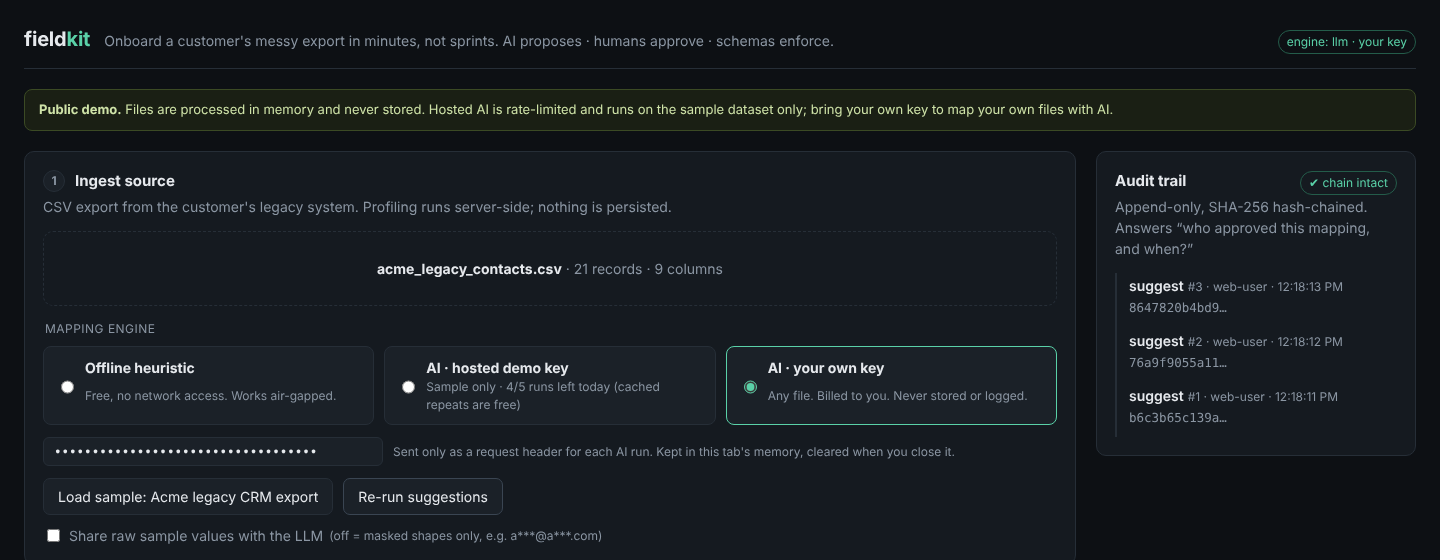
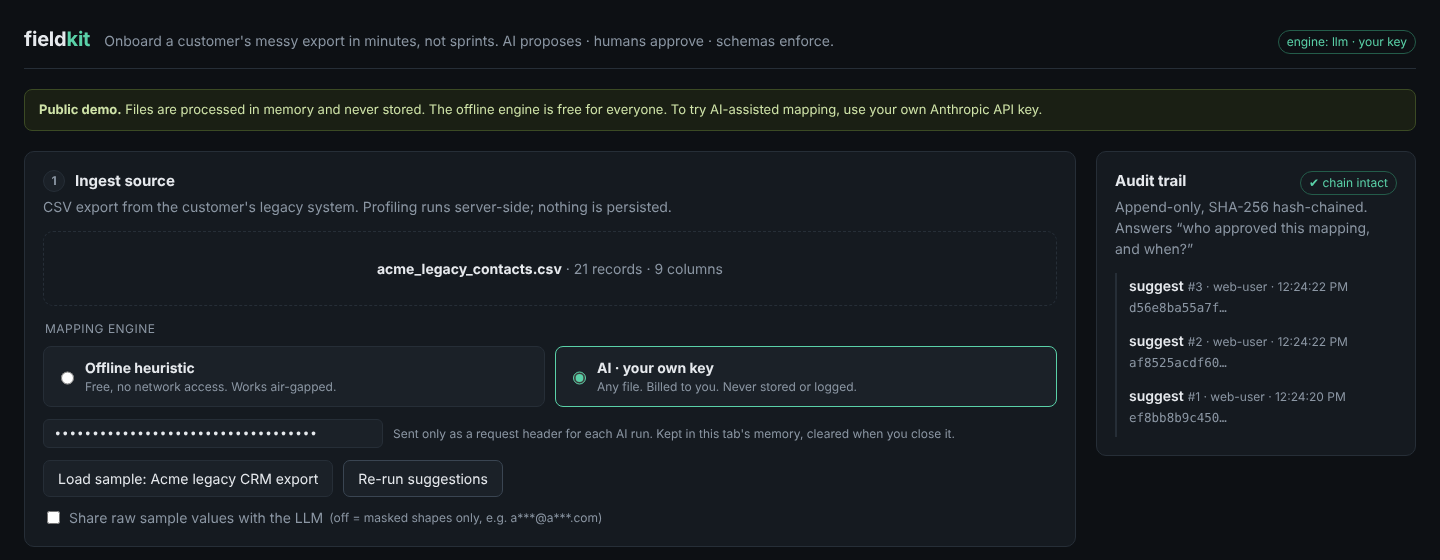
Demo mode: bring-your-own-key only, never spend the owner's key
- FIELDKIT_DEMO_MODE ignores ANTHROPIC_API_KEY (startup warning) unless FIELDKIT_ALLOW_HOSTED_AI=1
- UI shows only Offline and Your own key when no hosted key is active
- Tests cover the ignored-key path; docs and ADR-0005 amended

Claude-Session: https://claude.ai/code/session_01G2K6q7Gvy2H1BMQD6cEnDi

diff --git a/apps/web/app/page.tsx b/apps/web/app/page.tsx
@@ -130,8 +130,10 @@ export default function Workbench() {
 
       {deploy?.demoMode && (
         <div className="demo-banner">
-          <b>Public demo.</b> Files are processed in memory and never stored. Hosted AI is rate-limited
-          {deploy.hostedSampleOnly ? " and runs on the sample dataset only" : ""}; bring your own key to map your own files with AI.
+          <b>Public demo.</b> Files are processed in memory and never stored.{" "}
+          {deploy.hostedAi
+            ? <>Hosted AI is rate-limited{deploy.hostedSampleOnly ? " and runs on the sample dataset only" : ""}; bring your own key to map your own files with AI.</>
+            : <>The offline engine is free for everyone. To try AI-assisted mapping, use your own Anthropic API key.</>}
           {deploy.auditIsEphemeral ? " The audit trail resets when the server recycles." : ""}
         </div>
       )}
@@ -158,15 +160,18 @@ export default function Workbench() {
               <input type="radio" name="engine" checked={engine === "offline"} onChange={() => setEngine("offline")} />
               <b>Offline heuristic</b><span>Free, no network access. Works air-gapped.</span>
             </label>
-            <label className={engine === "hosted" ? "on" : ""} title={deploy?.hostedAi ? "" : "No hosted key on this deployment"}>
-              <input type="radio" name="engine" disabled={!deploy?.hostedAi} checked={engine === "hosted"} onChange={() => setEngine("hosted")} />
-              <b>AI · hosted demo key</b>
-              <span>
-                {!deploy?.hostedAi ? "Not configured on this deployment"
-                  : deploy.demoMode ? `${deploy.hostedSampleOnly ? "Sample only · " : ""}${deploy.remainingToday ?? 0}/${deploy.perVisitorDaily} runs left today (cached repeats are free)`
-                  : "Uses the server's key"}
-              </span>
-            </label>
+            {/* Only shown when the deployment deliberately provides a server key (local/private, or explicit opt-in). */}
+            {deploy?.hostedAi && (
+              <label className={engine === "hosted" ? "on" : ""}>
+                <input type="radio" name="engine" checked={engine === "hosted"} onChange={() => setEngine("hosted")} />
+                <b>AI · {deploy.demoMode ? "hosted demo key" : "server key"}</b>
+                <span>
+                  {deploy.demoMode
+                    ? `${deploy.hostedSampleOnly ? "Sample only · " : ""}${deploy.remainingToday ?? 0}/${deploy.perVisitorDaily} runs left today (cached repeats are free)`
+                    : "Uses this server's configured key"}
+                </span>
+              </label>
+            )}
             <label className={engine === "byok" ? "on" : ""}>
               <input type="radio" name="engine" checked={engine === "byok"} onChange={() => setEngine("byok")} />
               <b>AI · your own key</b><span>Any file. Billed to you. Never stored or logged.</span>

diff --git a/apps/web/lib/demo.ts b/apps/web/lib/demo.ts
@@ -13,7 +13,10 @@ import { createHash } from "node:crypto";
 
 export interface DemoConfig {
   demoMode: boolean;
+  /** Server-side key. Always undefined in demo mode unless FIELDKIT_ALLOW_HOSTED_AI=1. */
   hostedKey?: string;
+  /** True when a key is present in the environment but deliberately ignored (demo mode). */
+  hostedKeyIgnored: boolean;
   /** In demo mode, only spend the hosted key on the built-in sample dataset. */
   sampleOnly: boolean;
   perVisitorDaily: number;
@@ -27,9 +30,14 @@ const bool = (v: string | undefined, d: boolean) => (v === undefined ? d : /^(1|
 
 export function loadConfig(env: Record<string, string | undefined> = process.env): DemoConfig {
   const demoMode = bool(env.FIELDKIT_DEMO_MODE, false);
+  // Public demos never spend the owner's key by default: AI is bring-your-own-key only.
+  // A key set by mistake in the hosting dashboard is ignored, not used.
+  const allowHosted = !demoMode || bool(env.FIELDKIT_ALLOW_HOSTED_AI, false);
+  const envKey = env.ANTHROPIC_API_KEY || undefined;
   return {
     demoMode,
-    hostedKey: env.ANTHROPIC_API_KEY || undefined,
+    hostedKey: allowHosted ? envKey : undefined,
+    hostedKeyIgnored: Boolean(envKey) && !allowHosted,
     sampleOnly: bool(env.FIELDKIT_HOSTED_SAMPLE_ONLY, true),
     perVisitorDaily: int(env.FIELDKIT_AI_PER_VISITOR_DAILY, 5),
     globalDaily: int(env.FIELDKIT_AI_GLOBAL_DAILY, 100),
@@ -138,7 +146,7 @@ export interface DecideInput {
 export function decideEngine({ config, wantsLlm, byokKey, isSample }: DecideInput): EngineDecision {
   if (!wantsLlm) return { kind: "heuristic", reason: "Offline engine selected" };
   if (byokKey) return { kind: "byok", apiKey: byokKey };
-  if (!config.hostedKey) return { kind: "heuristic", reason: "No hosted AI key on this deployment. Add your own key to try AI mapping." };
+  if (!config.hostedKey) return { kind: "heuristic", reason: "AI mapping on this deployment uses your own key only. Add it to try AI mapping." };
   if (!config.demoMode) return { kind: "hosted", apiKey: config.hostedKey, metered: false };
   if (config.sampleOnly && !isSample) {
     return { kind: "heuristic", reason: "Hosted AI runs on the sample dataset only in this public demo. Use your own key for uploads." };

diff --git a/apps/web/app/globals.css b/apps/web/app/globals.css
@@ -82,12 +82,11 @@ aside .event .t { color: var(--muted); font-size: 12px; }
 aside .event code { color: var(--muted); }
 
 .demo-banner { grid-column: 1 / -1; background: #1a1f14; border: 1px solid #3b4a24; color: #cfe3a8; border-radius: 8px; padding: 10px 14px; font-size: 13px; }
-.engines { border: none; padding: 0; margin: 14px 0 12px; display: grid; grid-template-columns: repeat(3, 1fr); gap: 10px; }
+.engines { border: none; padding: 0; margin: 14px 0 12px; display: grid; grid-template-columns: repeat(auto-fit, minmax(240px, 1fr)); gap: 10px; }
 .engines legend { color: var(--muted); font-size: 12px; text-transform: uppercase; letter-spacing: 0.04em; margin-bottom: 8px; }
 .engines label { display: grid; grid-template-columns: auto 1fr; column-gap: 8px; background: var(--panel-2); border: 1px solid var(--line); border-radius: 8px; padding: 10px 12px; cursor: pointer; }
 .engines label.on { border-color: var(--accent); }
 .engines label:has(input:disabled) { opacity: 0.5; cursor: not-allowed; }
 .engines input { grid-row: span 2; margin-top: 3px; accent-color: var(--accent); }
 .engines span { color: var(--muted); font-size: 12px; }
-@media (max-width: 800px) { .engines { grid-template-columns: 1fr; } }
 input.key { font-family: var(--mono); font-size: 12.5px; color: var(--text); background: var(--panel-2); border: 1px solid var(--line); border-radius: 6px; padding: 6px 10px; width: 340px; }

diff --git a/apps/web/lib/demo.test.ts b/apps/web/lib/demo.test.ts
@@ -12,6 +12,17 @@ describe("loadConfig", () => {
     const c = loadConfig({ FIELDKIT_DEMO_MODE: "1", FIELDKIT_AI_GLOBAL_DAILY: "20" });
     expect(c).toMatchObject({ demoMode: true, globalDaily: 20, requestsPerMinute: 30, maxCsvBytes: 2 * 1024 * 1024 });
   });
+
+  it("ignores the owner's key in demo mode, even if it is set by mistake", () => {
+    const c = loadConfig({ FIELDKIT_DEMO_MODE: "1", ANTHROPIC_API_KEY: "owner-key" });
+    expect(c.hostedKey).toBeUndefined();
+    expect(c.hostedKeyIgnored).toBe(true);
+    expect(decideEngine({ config: c, wantsLlm: true, isSample: true }).kind).toBe("heuristic");
+  });
+
+  it("uses the server key for local/private deployments", () => {
+    expect(loadConfig({ ANTHROPIC_API_KEY: "k" }).hostedKey).toBe("k");
+  });
 });
 
 describe("FixedWindowLimiter", () => {
@@ -49,7 +60,8 @@ describe("TtlCache", () => {
 });
 
 describe("decideEngine", () => {
-  const demo = loadConfig({ FIELDKIT_DEMO_MODE: "1", ANTHROPIC_API_KEY: "host-key" });
+  // Explicit opt-in (FIELDKIT_ALLOW_HOSTED_AI) is required for the hosted path in demo mode.
+  const demo = loadConfig({ FIELDKIT_DEMO_MODE: "1", FIELDKIT_ALLOW_HOSTED_AI: "1", ANTHROPIC_API_KEY: "host-key" });
 
   it("never spends anything when the visitor picks offline", () => {
     expect(decideEngine({ config: demo, wantsLlm: false, isSample: true }).kind).toBe("heuristic");

diff --git a/apps/web/lib/server.ts b/apps/web/lib/server.ts
@@ -7,6 +7,9 @@ import type { SuggestResult } from "@fieldkit/core";
 import { SAMPLE_CSV } from "./sample.generated";
 
 export const config = loadConfig();
+if (config.hostedKeyIgnored) {
+  console.warn("[fieldkit] ANTHROPIC_API_KEY is set but ignored: demo mode is bring-your-own-key only. Remove it from this deployment.");
+}
 
 const DAY = 24 * 60 * 60 * 1000;
 

diff --git a/README.md b/README.md
@@ -52,32 +52,30 @@ fieldkit run     --source ../../examples/acme_legacy_contacts.csv --mapping mapp
 fieldkit audit verify
 ```
 
-LLM-assisted mapping is optional: `export ANTHROPIC_API_KEY=...`. Without a key, Fieldkit uses the
+LLM-assisted mapping is optional: `export ANTHROPIC_API_KEY=...` for local or private runs (it's ignored in public demo mode). Without a key, Fieldkit uses the
 deterministic heuristic mapper and **says so in the UI**. It never falls back silently.
 
 Docker: `docker build -t fieldkit . && docker run -p 3000:3000 fieldkit`
 
 ## Deploy a public demo (safely)
 
-The live demo must not become an open wallet for your API key. **Demo mode** (`FIELDKIT_DEMO_MODE=1`)
-gives visitors three engines and bounds what the hosted key can spend:
+The public demo never spends the owner's API key. In **demo mode** (`FIELDKIT_DEMO_MODE=1`) visitors get two engines:
 
 ![Demo mode engine picker](docs/demo-mode.png)
 
-- **Offline heuristic:** free, the default when no key is set.
-- **AI · hosted demo key:** runs on the built-in sample only, cached for 24h, with per-visitor and global daily quotas.
-- **AI · your own key:** visitors map *their* files and pay for it themselves. The key is held in tab memory only and never stored or logged.
+- **Offline heuristic:** free and the default. It maps 9/9 fields on the sample.
+- **AI · your own key:** visitors paste *their own* Anthropic key to try AI-assisted mapping on any file, at their own cost.
+  The key stays in tab memory, is sent only as a request header, and is never stored, logged, or written to the audit trail.
 
+Demo mode **ignores `ANTHROPIC_API_KEY` even if it's set** (it logs a warning), so a key added to the hosting dashboard
+by mistake can't be billed. Rate limits and upload caps still protect the server.
 Details and tradeoffs: [ADR-0005](docs/adr/0005-public-demo-cost-controls.md).
 
 ### Vercel (recommended: no cold starts)
 
 1. Import the repo → set **Root Directory** to `apps/web` (framework: Next.js; pnpm is auto-detected).
-2. Environment variables: `FIELDKIT_DEMO_MODE=1`, `FIELDKIT_VISITOR_SALT=<random>`, and optionally
-   `ANTHROPIC_API_KEY` (see step 3). The full list is in [`.env.example`](.env.example).
-3. **Before adding a key:** create a dedicated workspace in the Anthropic Console, give it a low monthly
-   spend limit (for example $5) with an alert, and create the key *in that workspace*. This is the hard ceiling if everything else fails.
-4. Deploy. The audit log automatically uses `/tmp` on Vercel, which resets when instances recycle (the UI says so).
+2. Environment variables: `FIELDKIT_DEMO_MODE=1` and `FIELDKIT_VISITOR_SALT=<random>`. **Don't add `ANTHROPIC_API_KEY`.**
+3. Deploy. The audit log automatically uses `/tmp` on Vercel, which resets when instances recycle (the UI says so).
 
 ### Render / Fly / any container host
 

diff --git a/docs/adr/0005-public-demo-cost-controls.md b/docs/adr/0005-public-demo-cost-controls.md
@@ -1,6 +1,6 @@
 # ADR-0005: Cost controls for a public demo
 
-**Status:** Accepted
+**Status:** Accepted (amended: hosted AI is off by default in demo mode)
 
 ## Context
 A public link to an app that calls a paid LLM API is an open wallet. It gets shared, crawled, and
@@ -8,7 +8,17 @@ scripted. The demo must show AI mapping to anyone evaluating the project, with a
 bill measured in cents, not hundreds of dollars.
 
 ## Decision
-Defence in depth. Each layer works without the others:
+**The default public demo spends nothing.** With `FIELDKIT_DEMO_MODE=1`, the server ignores
+`ANTHROPIC_API_KEY` even if it's set (and warns at startup), so the owner's account can't be charged
+through the demo, including by a configuration mistake. Visitors choose between:
+
+- **Offline heuristic:** free, no network access.
+- **Bring your own key:** visitors who want to evaluate AI mapping pay for it themselves.
+
+Rate limits (per-minute on all POST routes) and the upload cap still protect compute.
+
+### Optional: hosted AI (`FIELDKIT_ALLOW_HOSTED_AI=1`)
+If the owner explicitly opts in, the hosted key is wrapped in defence in depth. Each layer works without the others:
 
 | # | Layer | Bounds |
 |---|---|---|

diff --git a/docs/DEMO_SCRIPT.md b/docs/DEMO_SCRIPT.md
@@ -31,9 +31,9 @@ with a renamed column: "If the customer renames a column next month, the run ref
 instead of silently dropping data."
 
 **Bonus, if they ask "how do you stop someone burning your API key?" (30s)**
-Point at the engine picker: "Hosted AI is limited to the sample and cached, there are per-visitor and global quotas,
-and anyone who wants AI on their own data brings their own key, which is never stored. The real ceiling is a spend
-cap on a dedicated workspace. Defence in depth: each layer assumes the one before it failed." (ADR-0005)
+Point at the engine picker: "The public demo never uses my key. It's ignored even if someone sets it by mistake.
+Visitors either use the free offline engine or bring their own key, which stays in tab memory and is never stored or logged.
+If I ever do host a key, there's an opt-in mode with a sample-only restriction, a cache, quotas and a workspace spend cap." (ADR-0005)
 
 **3:45 – Close (15s)**
 "The same engine runs as a CLI inside the customer's VPC. The LLM proposes, the human approves, the

diff --git a/docs/ARCHITECTURE.md b/docs/ARCHITECTURE.md
@@ -38,7 +38,7 @@ flowchart LR
 | LLM output → mapping | zod schema validation; hallucinated columns rejected per field; transforms are limited to the closed DSL. |
 | Mapping → real run | Every required field must be human-approved; the source fingerprint must match. |
 | Record → output | The target zod schema validates every row. Invalid rows are reported, never coerced. |
-| Public internet → hosted API key | Demo mode: sample-only hosted AI, result cache, per-visitor/global quotas, BYOK, workspace spend cap ([ADR-0005](adr/0005-public-demo-cost-controls.md)). |
+| Public internet → owner's API key | Demo mode ignores the server key entirely: AI is bring-your-own-key only. Optional opt-in adds sample-only, cache, quotas and a spend cap ([ADR-0005](adr/0005-public-demo-cost-controls.md)). |
 
 ## Extension points
 
